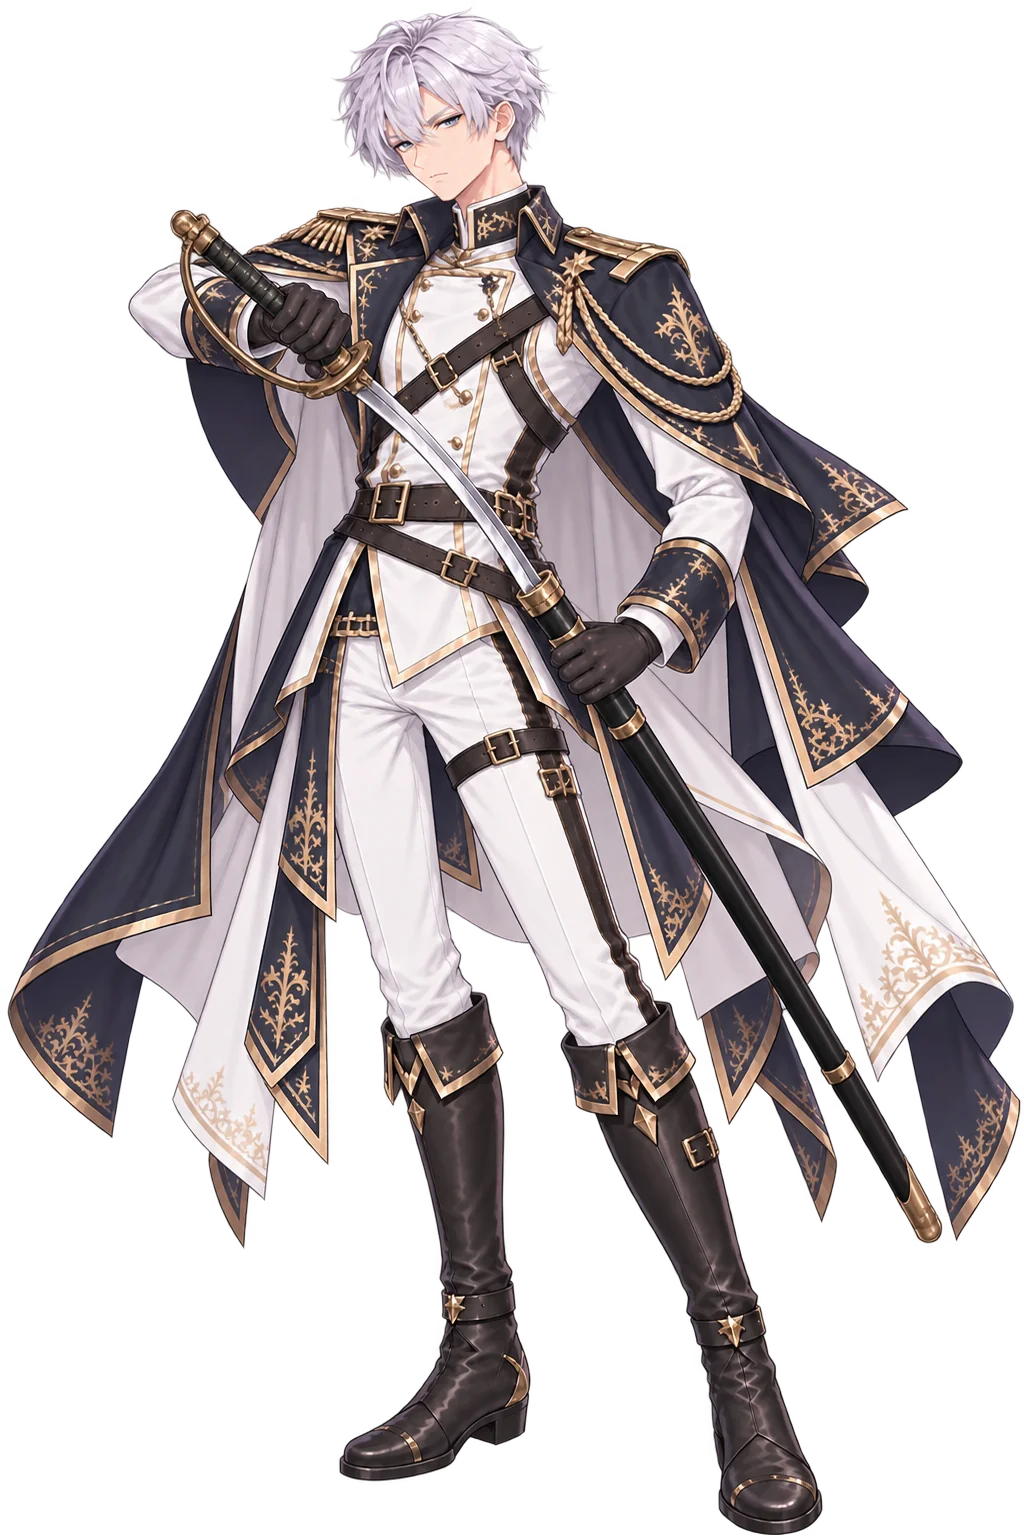
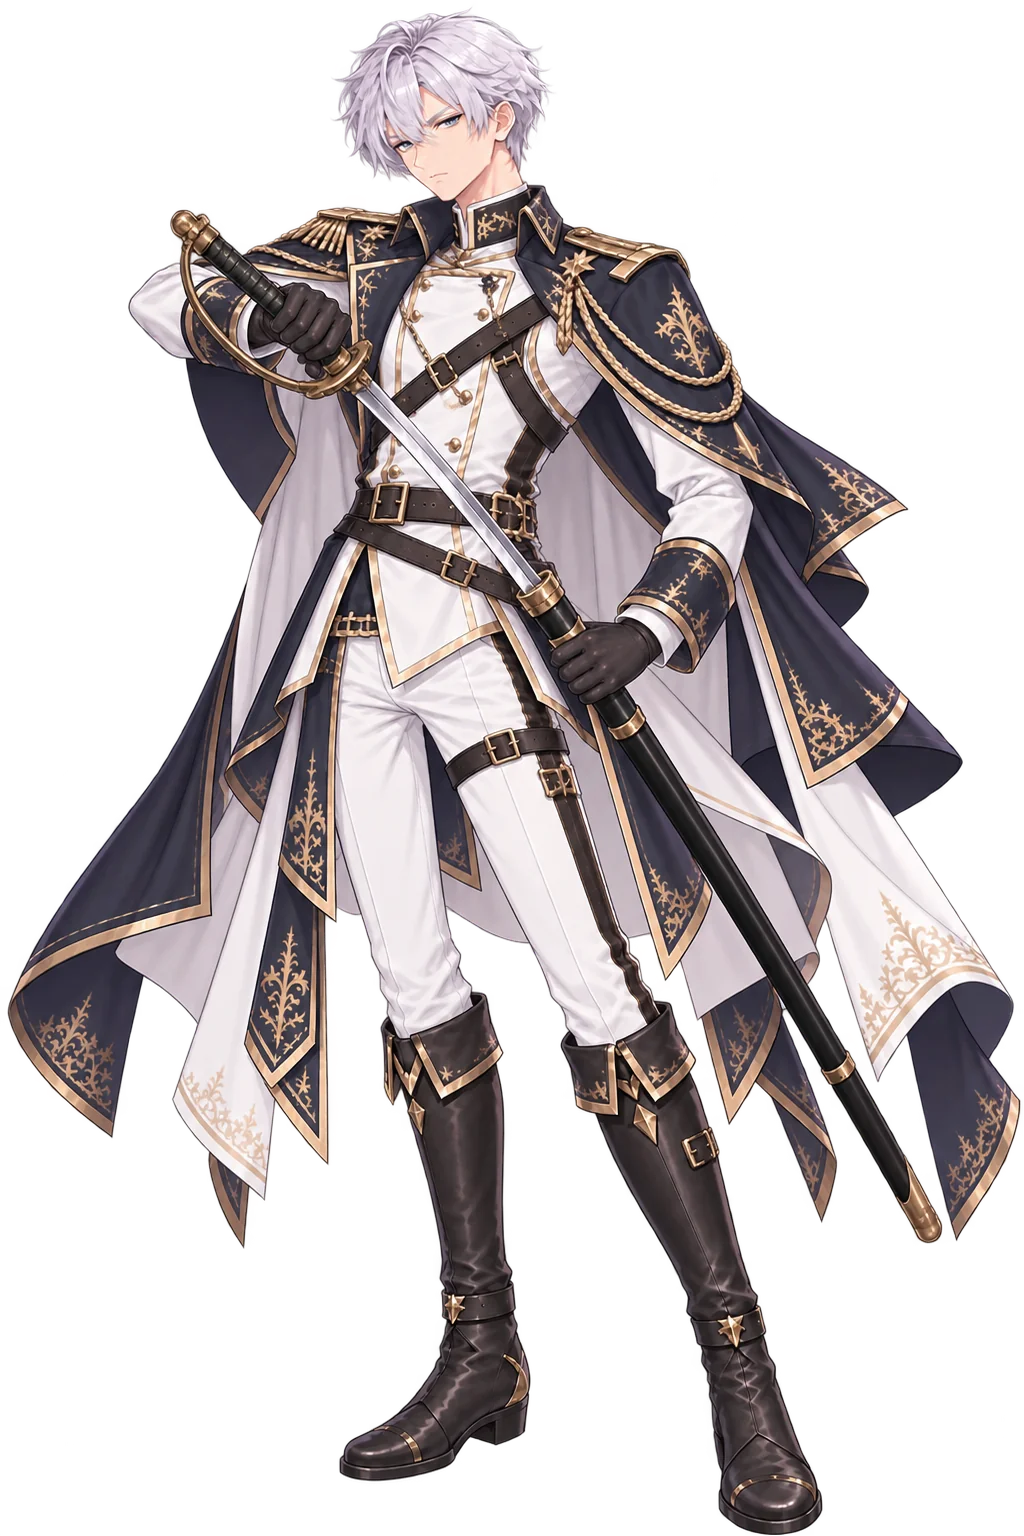
art(米夏): draw 刀身改成「稍微修直、保持寬度」—— 上一版修成弧線是反的
Ray：「更慘了 應該要稍微修直並保持刀身寬度才對」

從 Ray 原圖重做：人眼讀刀身上下緣，兩條邊各自拉成直線（端點不動），
寬度沿長度線性 23.5→21 px 與原圖一致；刀身內逐欄仿射、外側高斯衰減，
最大位移 1.8 px。護手、柄、鞘一個像素沒動。

· q85 第一代、alpha 零誤差、近白 0.23%；取景值 top:6 bot:1534 fx:0.434 不變
· 弧線版進 _recycle/；工單附三之三改寫，記下「刀身彎＝刀身自己彎，先轉水平看」的教訓

Changed region(s): [[0.3438, 0.25, 0.5312, 0.375]]

diff --git a/resources/_HANDOFF_ART_20260924.md b/resources/_HANDOFF_ART_20260924.md
@@ -139,7 +139,7 @@
   v5/v6 每則都附畜生道整把＋護手局部，逐項鎖「扁平舊黃銅條、窄 D 貼柄、末端小鉤、深近黑纏繩」才過。
   七版病因、有效作法（第 0 條：先定刀刃朝哪邊）、產線兩個坑（附圖與文字同一則送／抓圖用 blob 大小排除舊版）、驗收六件，都在 `si/_misha_program_worklist.md` **附三**。
 - `draw`／`drawopen` 線上是 v7（本機只拼刀柄＋拳頭區回原圖，臉 0 px 改動）。v7 之後 Ray 再退兩次（弧度太貼柄；換 front 餵的新串三張刀都不合格），
-  Ray：「停吧 我自己做」→ 他自己出了一張（護手定案），本機把刀身兩個折角修成切線連續的緩弧後入庫（工單**附三之三**，含量法與形變作法）。
+  Ray：「停吧 我自己做」→ 他自己出了一張（護手定案），本機把刀身拉直（保持寬度、最大位移 1.8 px）後入庫（工單**附三之三**，含量法、形變作法、與第一次修成弧線做反的教訓）。
   **程式端要接**：`draw` `?v=3` ＋ 取景值 top:6 bot:1534 fx:0.434；**`drawopen` 姿勢對不上要重做**（以新 draw 為底只換嘴）。
 - **程式端要接**：`speakers.js` `draw` `?v=2→3`、`drawopen` 加 `?v=2`；取景值不變。
 - ⚠ **問 Ray**：`front` 與 09-23 那五張的護手仍是亮金圓管大圓弧，只有 `draw` 是畜生道規格 —— 要不要全套換。
